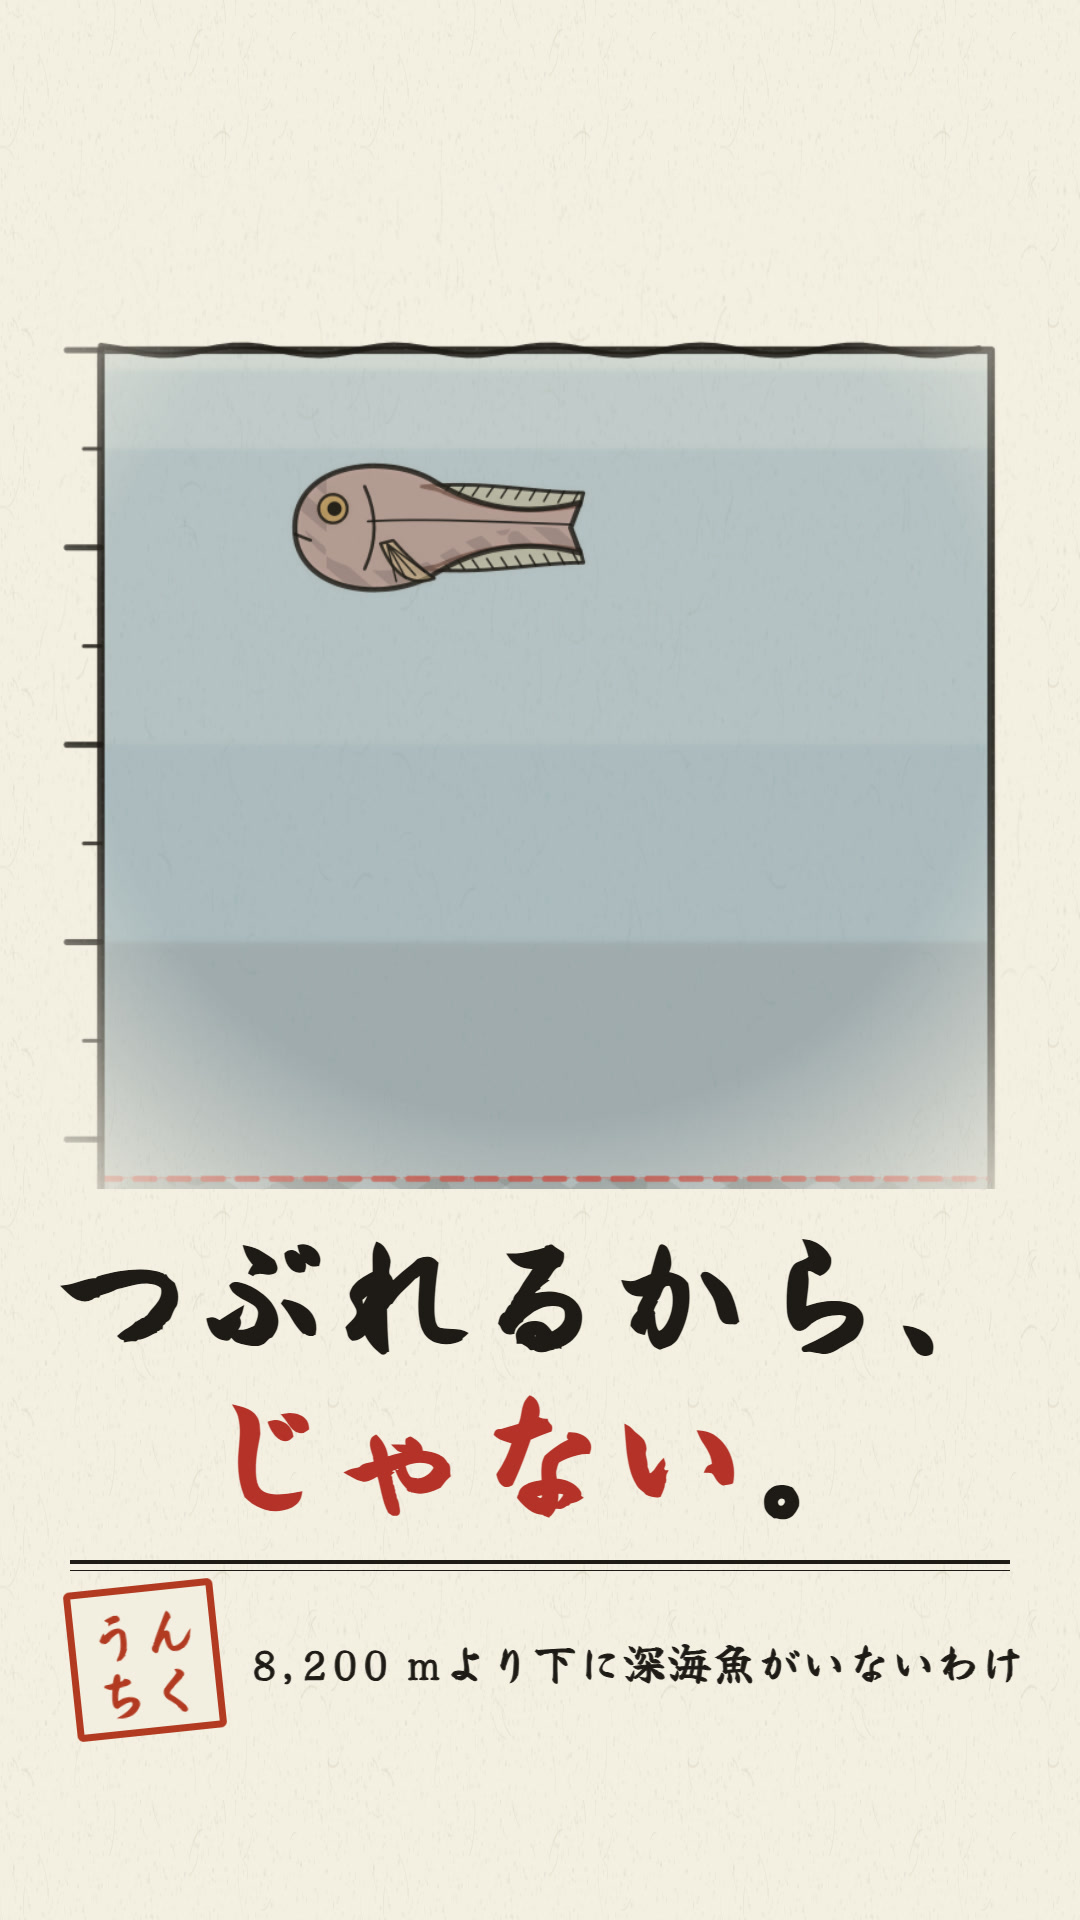
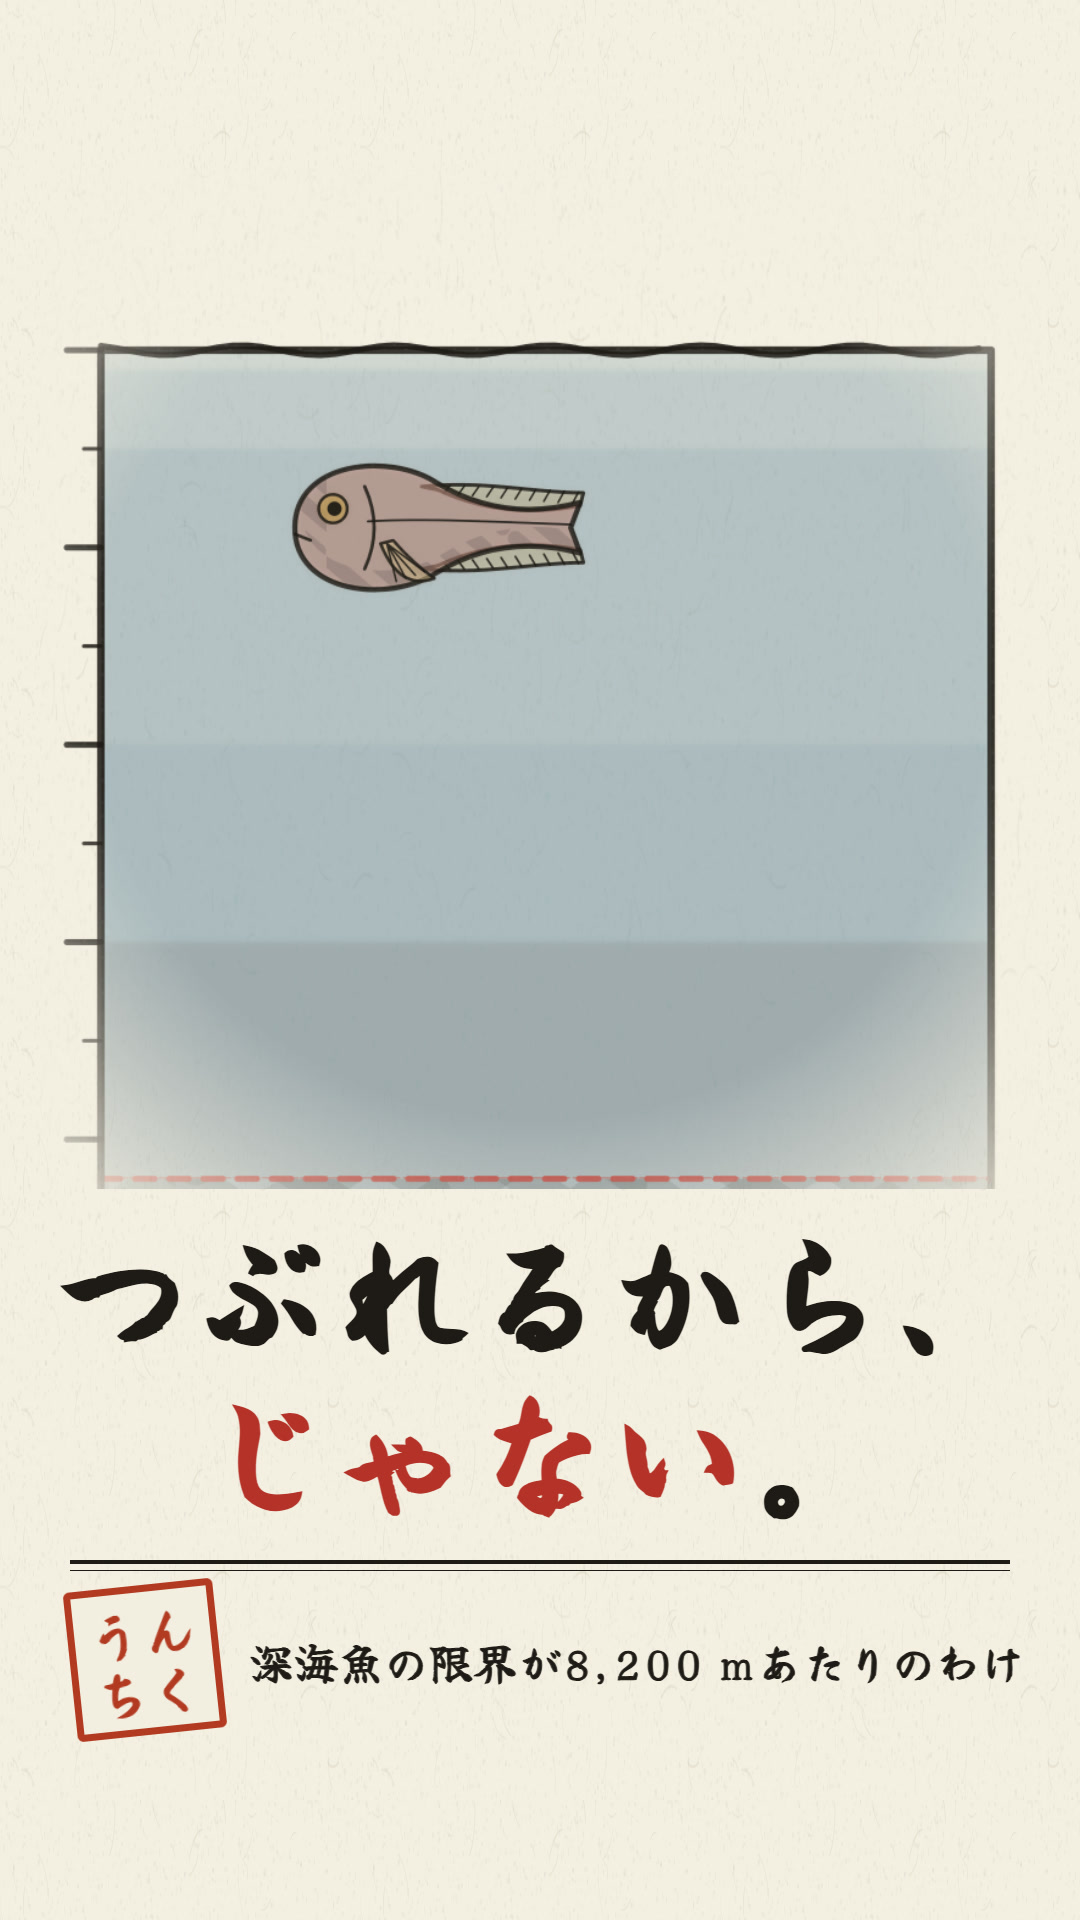
うんちく: 深海魚のサムネイルの字をタイトルに合わせて「8,200 m あたり」に

Changed region(s): [[0.2139, 0.8438, 0.8556, 0.875]]

diff --git a/_dev/promo/trivia-thumbs.js b/_dev/promo/trivia-thumbs.js
@@ -7,7 +7,7 @@ window.TRIVIA_THUMBS = {
   'ga-creatures-trivia1':  { t: 1.5, crop: [120, 440, 840, 700], title: 'プログラムが\n[死んだふり]？', line: 'テストを見やぶったプログラム' },
   'tree-of-life-trivia1':  { t: 1.0, crop: [100, 440, 880, 480], title: 'ヒトに\n[近いのは？]', line: 'ヒトデとタコ、ヒトの親せきは？' },
   'metamorphosis-trivia1': { t: 1.2, crop: [50, 470, 760, 480], title: 'ドロドロに\nなっても\n[記憶は残る？]', line: 'イモムシの記憶、ガになっても？' },
-  'extreme-trivia1':       { t: 1.5, crop: [180, 150, 820, 620], title: 'つぶれるから、\n[じゃない]。', line: '8,200 mより下に深海魚がいないわけ' },
+  'extreme-trivia1':       { t: 1.5, crop: [180, 150, 820, 620], title: 'つぶれるから、\n[じゃない]。', line: '深海魚の限界が8,200 mあたりのわけ' },
   'god-view-trivia3':      { t: 12.5, crop: [180, 140, 720, 620], title: 'この30秒で\nあなたは\n[何km]動く？', line: 'すわっているだけ。それでも動いている' },
   'net-route-trivia3':     { t: 16.8, crop: [130, 470, 680, 440], title: 'ハトで\nping [53分]？', line: '本当にハトでネットをやった' },
 };
